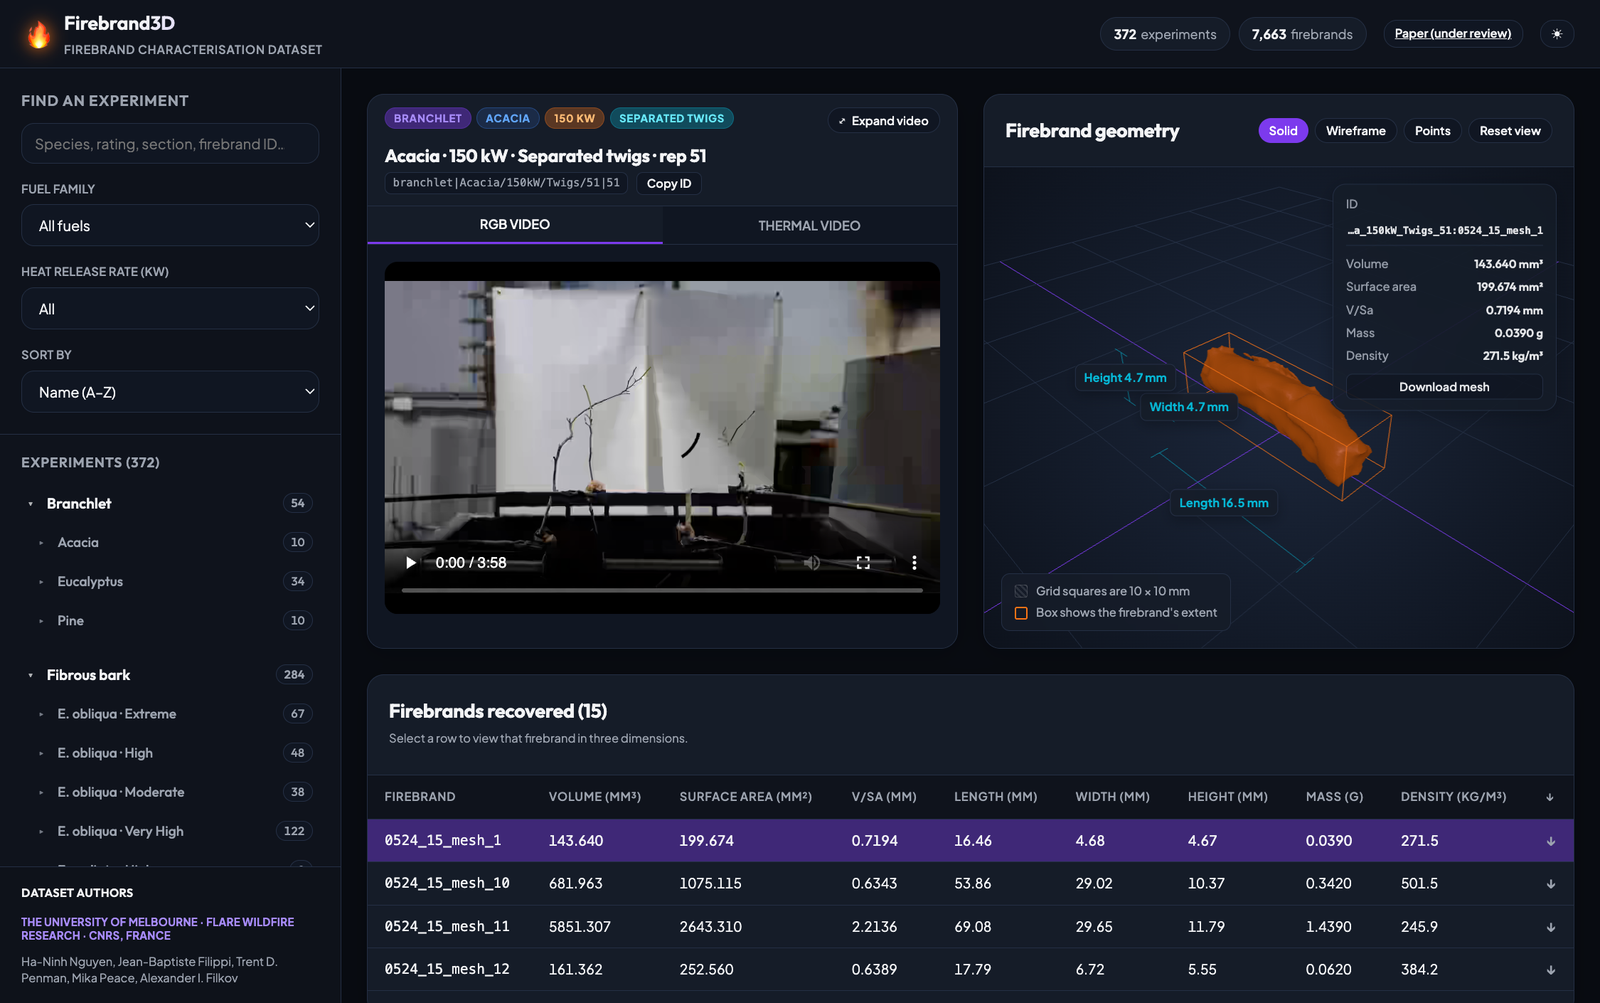
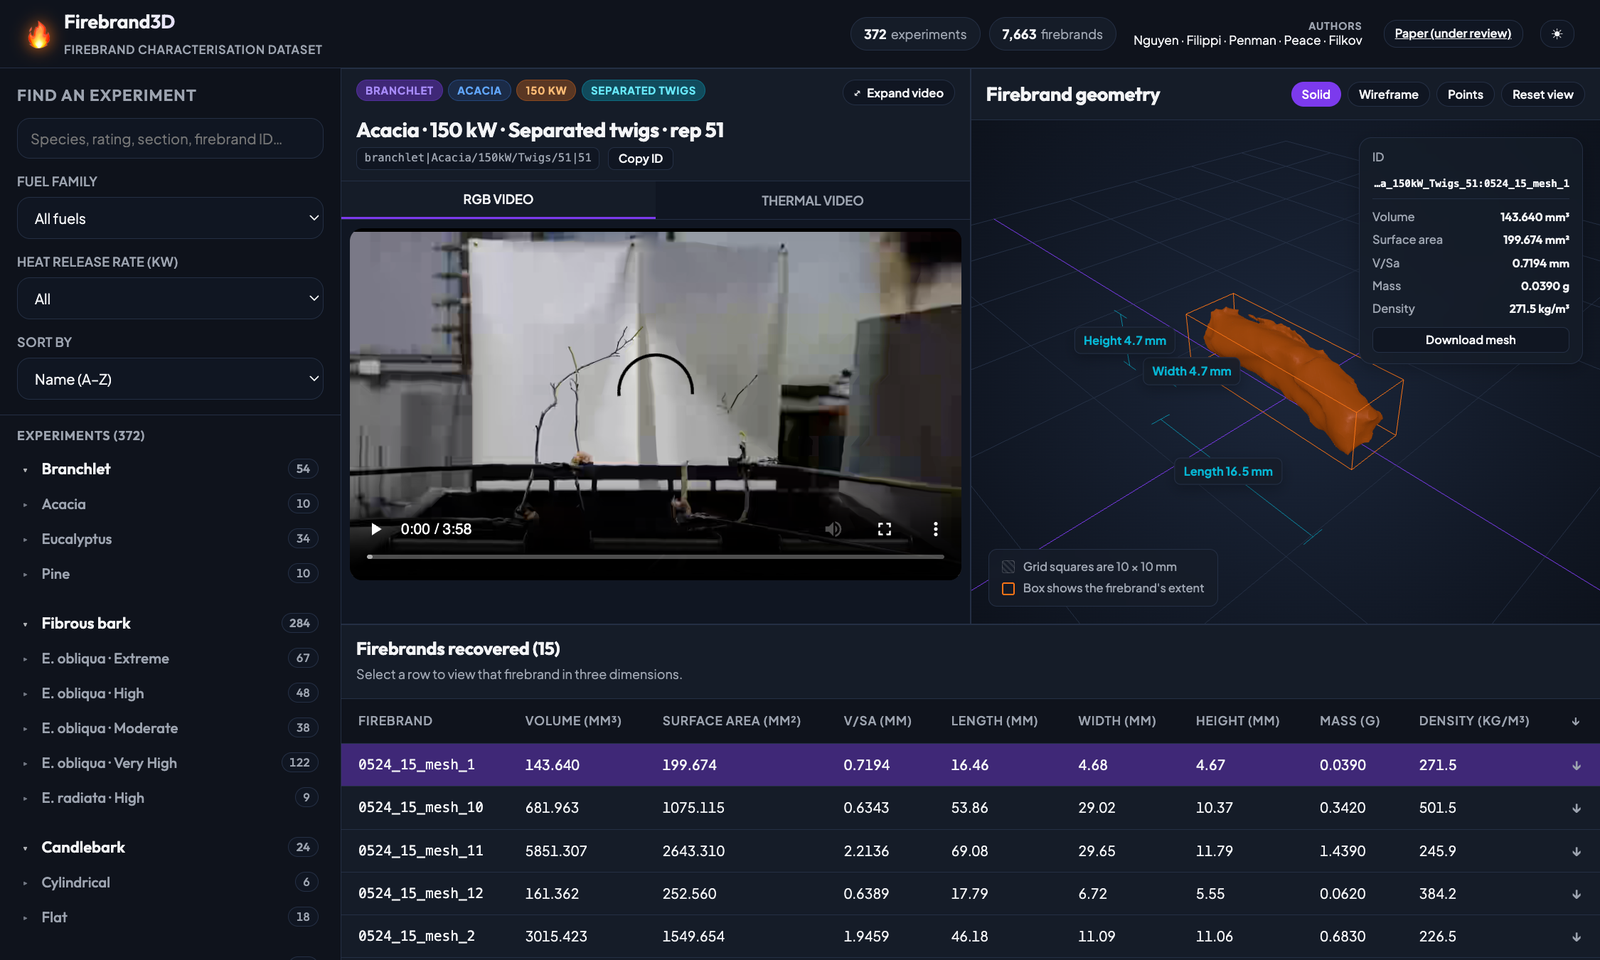
Denser layout: authors to the header, panels divided by a line
The three panels were separated by 24px gaps and each carried a radius, a shadow
and its own border. They now sit flush, divided by a single hairline drawn by the
grid's background through 1px gaps. The author list moves to the header, which
returns about 110px to the experiment list, and type goes up from 14 to 15px.

Screenshot updated to the new layout.

diff --git a/index.css b/index.css
@@ -1811,3 +1811,84 @@ body.sidebar-open .sidebar-scrim { display: block; }
     height: calc(min(78vh, 820px) - 185px);
   }
 }
+
+/* ==========================================================================
+   Denser layout — reclaim the space the chrome was taking.
+   The three panels were separated by 24px gaps, 16px radii, shadows and their
+   own borders, which together cost more room than the gaps between them were
+   worth. Panels now sit flush and are divided by a single hairline: the grid's
+   own background shows through 1px gaps, so no panel needs a border of its own
+   and adjacent borders cannot double up. Type goes up rather than down.
+   ========================================================================== */
+
+/* --- Type ---------------------------------------------------------------- */
+body { font-size: 15px; }
+.sidebar .filter-label { font-size: 12px; }
+.section-title { font-size: 15px; }
+.tree-header { font-size: 0.92rem; }
+.tree-subheader { font-size: 0.86rem; }
+.run-item-title { font-size: 0.88rem; }
+.run-item-count { font-size: 0.74rem; }
+#firebrands-table { font-size: 13.5px; }
+#firebrands-table th { font-size: 11.5px; }
+.detail-header h2 { font-size: 1.2rem; }
+.viewport-title, .table-card h2 { font-size: 1.05rem; }
+.hud-overlay { font-size: 11.5px; }
+.group-nav-header h2 { font-size: 12px; }
+
+/* --- Panels divided by a line, not a gap --------------------------------- */
+.workspace { padding: 0; }
+.workspace-grid {
+  gap: 1px;
+  background: var(--border-color);
+  border-top: 1px solid var(--border-color);
+}
+.workspace-grid > .card {
+  border: none;
+  border-radius: 0;
+  box-shadow: none;
+}
+.card-header, .detail-header { padding: 10px 14px; }
+.table-card .card-header { padding: 10px 14px 8px; }
+.subtitle-text { font-size: 12px; margin-top: 2px; }
+.video-viewports { padding: 8px; }
+.viewport-body { padding: 0; }
+
+/* The landing panel keeps breathing room; it is prose, not a workspace. */
+.workspace-centered-screen { padding: 24px; }
+
+/* --- Sidebar: the freed space goes to the experiment list ---------------- */
+.search-filter-panel { padding: 14px 16px; gap: 12px; }
+.group-nav-header { padding: 10px 16px 6px; }
+.runs-list { padding: 0 12px 12px; }
+.tree-header, .tree-subheader { padding: 7px 9px; }
+.run-item { padding: 8px 10px; }
+
+/* --- Authors in the header ----------------------------------------------- */
+.header-authors {
+  display: flex;
+  flex-direction: column;
+  align-items: flex-end;
+  line-height: 1.25;
+  margin-right: 4px;
+  cursor: help;
+  min-width: 0;
+}
+.header-authors-label {
+  font-size: 9.5px;
+  text-transform: uppercase;
+  letter-spacing: 0.06em;
+  color: var(--text-muted);
+  font-weight: 700;
+}
+.header-authors-names {
+  font-size: 11.5px;
+  color: var(--text-main);
+  white-space: nowrap;
+  overflow: hidden;
+  text-overflow: ellipsis;
+  max-width: 34ch;
+}
+/* Names are the first thing to go when the header runs out of room. */
+@media (max-width: 1280px) { .header-authors-names { max-width: 22ch; } }
+@media (max-width: 1100px) { .header-authors { display: none; } }

diff --git a/index.html b/index.html
@@ -9,7 +9,7 @@
   <link rel="preconnect" href="https://fonts.googleapis.com">
   <link rel="preconnect" href="https://fonts.gstatic.com" crossorigin>
   <link href="https://fonts.googleapis.com/css2?family=Outfit:wght@300;400;500;600;700;800&family=Plus+Jakarta+Sans:wght@300;400;500;600;700;800&display=swap" rel="stylesheet">
-  <link rel="stylesheet" href="index.css?v=20260917h">
+  <link rel="stylesheet" href="index.css?v=20260918a">
 
   <!-- Libraries are served from this host. A CDN outage or a network that blocks it would
        otherwise leave the page loading and then silently blank. -->
@@ -40,6 +40,10 @@
         <div class="global-stats">
           <span class="stat-badge"><strong id="stat-runs">0</strong> experiments</span>
           <span class="stat-badge"><strong id="stat-meshes">0</strong> firebrands</span>
+        </div>
+        <div class="header-authors" title="Ha-Ninh Nguyen, Jean-Baptiste Filippi, Trent D. Penman, Mika Peace, Alexander I. Filkov — The University of Melbourne · FLARE Wildfire Research · CNRS, France">
+          <span class="header-authors-label">Authors</span>
+          <span class="header-authors-names">Nguyen · Filippi · Penman · Peace · Filkov</span>
         </div>
         <a href="paper.html" class="btn btn-secondary btn-small" target="_blank" rel="noopener" title="The data descriptor is under review">Paper (under review)</a>
         <button id="theme-toggle" class="btn btn-secondary btn-small" aria-label="Switch between light and dark">
@@ -97,11 +101,6 @@
           <div id="runs-list" class="runs-list scrollbar"></div>
         </div>
 
-        <div class="panel-section authors-section">
-          <h3 class="filter-label">Dataset authors</h3>
-          <p class="authors-org">The University of Melbourne · FLARE Wildfire Research · CNRS, France</p>
-          <p class="authors-names">Ha-Ninh Nguyen, Jean-Baptiste Filippi, Trent D. Penman, Mika Peace, Alexander I. Filkov</p>
-        </div>
       </aside>
 
       <!-- ------------------------------------------------------------------ -->
@@ -264,6 +263,6 @@
     </div>
   </div>
 
-  <script type="module" src="app.js?v=20260917h"></script>
+  <script type="module" src="app.js?v=20260918a"></script>
 </body>
 </html>
